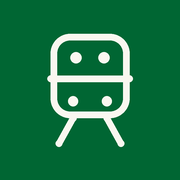
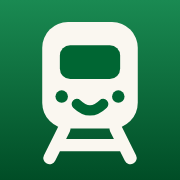
Add files via upload

diff --git a/src/App.jsx b/src/App.jsx
@@ -7,7 +7,7 @@ import VistaNumeroTreno from './components/VistaNumeroTreno'
 import VistaTabellone from './components/VistaTabellone'
 import VistaSuggerimenti from './components/VistaSuggerimenti'
 import BottoneCaffe from './components/BottoneCaffe'
-import { IconaCuore } from './components/Icone'
+import { IconaCuore, LogoApp } from './components/Icone'
 import { cercaViaggio, cercaItalo } from './lib/api'
 import { leggiPreferiti } from './lib/preferiti'
 
@@ -245,17 +245,7 @@ export default function App() {
         <div className="absolute left-0 top-0">
           <BottoneCaffe />
         </div>
-        <div className="flex h-14 w-14 items-center justify-center rounded-2xl bg-araldico-700 shadow-sm">
-          <svg viewBox="0 0 24 24" className="h-9 w-9" fill="none" stroke="#faf7f0" strokeWidth="1.6" strokeLinecap="round" strokeLinejoin="round">
-            <rect x="5" y="3" width="14" height="13" rx="3" />
-            <path d="M5 10h14" />
-            <circle cx="9" cy="7" r="0.8" fill="#faf7f0" stroke="none" />
-            <circle cx="15" cy="7" r="0.8" fill="#faf7f0" stroke="none" />
-            <path d="M8 16l-2 4M16 16l2 4" />
-            <circle cx="8.5" cy="13" r="0.6" fill="#faf7f0" stroke="none" />
-            <circle cx="15.5" cy="13" r="0.6" fill="#faf7f0" stroke="none" />
-          </svg>
-        </div>
+        <LogoApp className="h-14 w-14 shadow-sm rounded-[14px]" />
         <div>
           <h1 className="font-display text-3xl font-bold text-araldico-800">Trova Treni</h1>
           <p className="text-sm text-araldico-700">Un&rsquo;app di Nicola Perozeni</p>

diff --git a/src/components/Icone.jsx b/src/components/Icone.jsx
@@ -87,3 +87,27 @@ export function IconaSveglia({ attiva, className = 'h-5 w-5' }) {
     </svg>
   )
 }
+
+// Logo dell'app (stesso disegno dell'icona sulla schermata Home):
+// trenino crema che sorride su verde sfumato
+export function LogoApp({ className = 'h-14 w-14' }) {
+  return (
+    <svg viewBox="0 0 24 24" className={className} role="img" aria-label="Trova Treni">
+      <defs>
+        <linearGradient id="logo-verde" x1="0" y1="0" x2="0" y2="1">
+          <stop offset="0" stopColor="#1a8a52" />
+          <stop offset="1" stopColor="#004d26" />
+        </linearGradient>
+      </defs>
+      <rect width="24" height="24" rx="5.4" fill="url(#logo-verde)" />
+      <g transform="translate(12 12) scale(0.98) translate(-12 -12)">
+        <rect x="5.5" y="2.75" width="13" height="14.5" rx="3.5" fill="#faf7f0" />
+        <rect x="7.9" y="5.9" width="8.2" height="4.6" rx="1.4" fill="#006633" />
+        <circle cx="8.15" cy="12.9" r=".85" fill="#006633" />
+        <circle cx="15.85" cy="12.9" r=".85" fill="#006633" />
+        <path d="M10.2 13.9q1.8 1.75 3.6 0" fill="none" stroke="#006633" strokeWidth="1.4" strokeLinecap="round" />
+        <path d="M8.5 17.25 6.5 21.25M15.5 17.25l2 4M7.5 19.5h9" fill="none" stroke="#faf7f0" strokeWidth="1.7" strokeLinecap="round" strokeLinejoin="round" />
+      </g>
+    </svg>
+  )
+}

diff --git a/src/components/VistaSuggerimenti.jsx b/src/components/VistaSuggerimenti.jsx
@@ -5,7 +5,7 @@ import { useState } from 'react'
 // Netlify e arrivano per email se attivata la notifica del modulo.
 
 // aggiornata a ogni pacchetto: serve a verificare che il nuovo deploy sia online
-export const VERSIONE = '5 nov 2026 · 5'
+export const VERSIONE = '5 nov 2026 · 6'
 
 const TIPI = [
   { id: 'suggerimento', etichetta: 'Suggerimento' },
